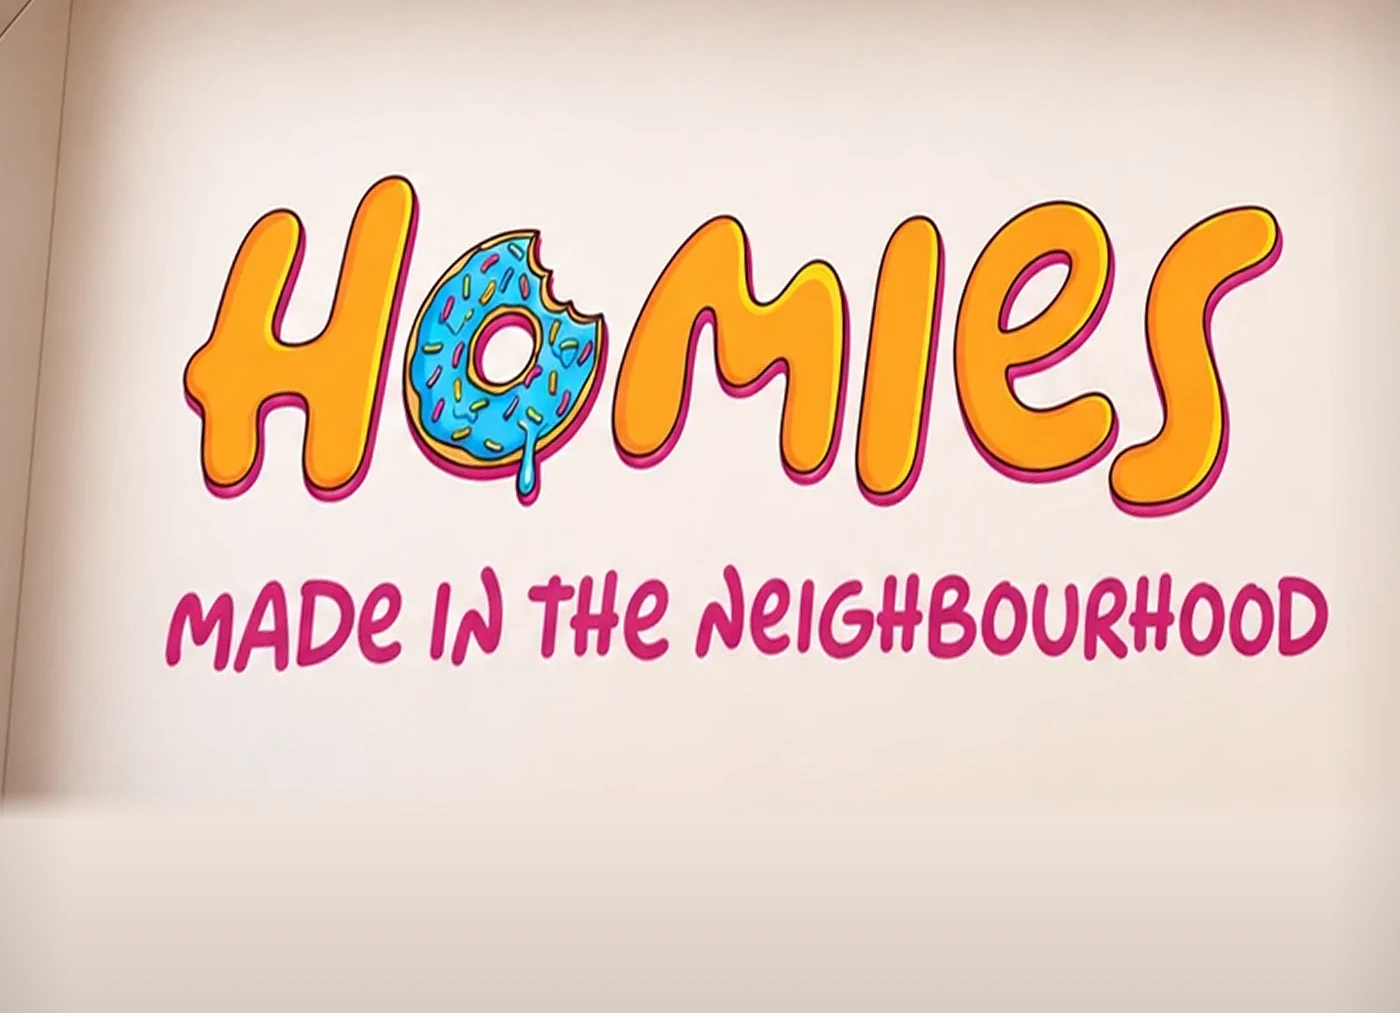
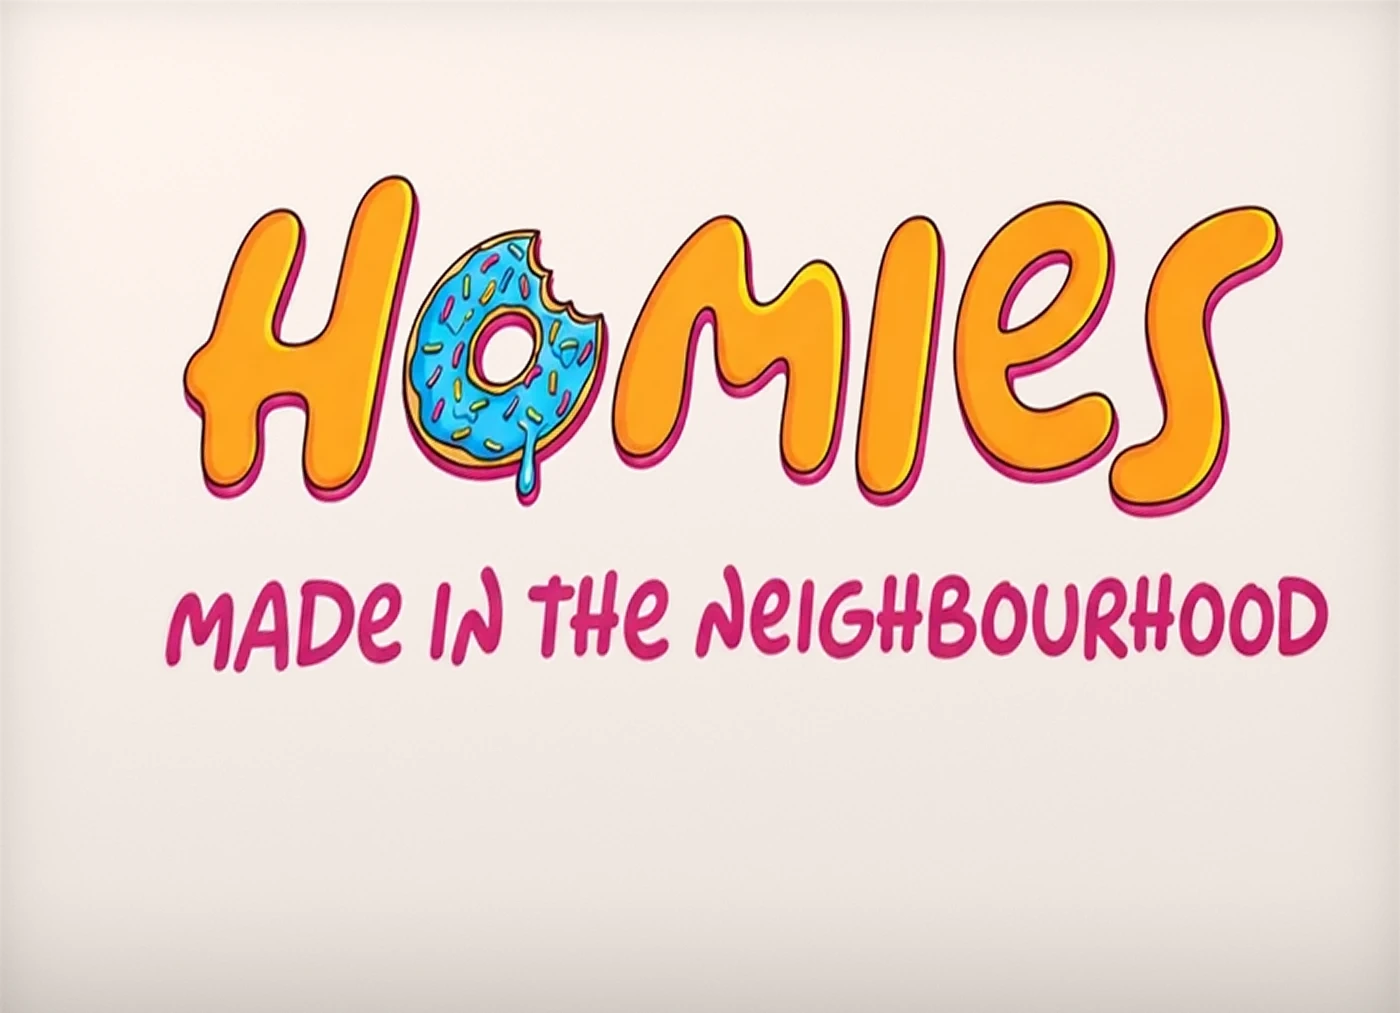
Hero box lid: sturdy folded-cardboard construction
- Panel texture rebuilt: the logo and wording are lifted pixel-for-pixel
  onto clean, evenly lit cardboard with soft shade along the folds and
  hinge (removes the photo's stray flap and crease marks).
- Side panels are tapered folds, deeper toward the open end, with a
  crisp fold line, a clean cut edge and matching inner/outer textures;
  outer faces keep the box's ring print at its true scale.
- Gentler, consistent per-face lighting; fold edges overlap slightly so
  joins never gap. Same position, size and 135° opening.

Changed region(s): [[0.0, 0.0, 1.0, 0.8263]]

diff --git a/js/hero-box.js b/js/hero-box.js
@@ -20,7 +20,7 @@
     R: [[0.917431, 0.390856, -0.07451], [0.179916, -0.574521, -0.798471], [-0.354895, 0.719136, -0.597405]],
     t: [-0.860662, 0.347017, 3.425569]
   };
-  var LID = { len: 1.02, lip: 0.06, over: 0.015, open: 135 };
+  var LID = { len: 1.02, lip: 0.085, taper: 0.25, over: 0.015, open: 135 };
   var IMG_W = 1312;
   // camera position in box space: C = -R^T t
   var CPOS = [0, 1, 2].map(function (i) { return -(CAM.R[0][i] * CAM.t[0] + CAM.R[1][i] * CAM.t[1] + CAM.R[2][i] * CAM.t[2]); });
@@ -55,11 +55,12 @@
     el.className = 'lf ' + cls; el.style.width = w + 'px'; el.style.height = h + 'px';
     lidEl.appendChild(el); return el;
   }
+  // the side and front panels are cardboard: cream inside, box-pink outside, with a fold line and a cut edge
   var F = {
-    panel: { w: 700, h: 506, out: makeFace('lf-out', 700, 506, 'img/hero/lid-outer.webp'), inn: makeFace('lf-in', 700, 506, 'img/hero/lid-inner.webp') },
-    front: { w: 700, h: 55, out: makeFace('lf-out', 700, 55, 'img/hero/lip-front.webp'), inn: makeFace('lf-in lf-paper', 700, 55) },
-    left: { w: 506, h: 55, out: makeFace('lf-out', 506, 55, 'img/hero/lip-front.webp'), inn: makeFace('lf-in lf-paper', 506, 55) },
-    right: { w: 506, h: 55, out: makeFace('lf-out', 506, 55, 'img/hero/lip-front.webp'), inn: makeFace('lf-in lf-paper', 506, 55) }
+    panel: { w: 700, h: 506, out: makeFace('lf-out', 700, 506, 'img/hero/lid-outer.webp'), inn: makeFace('lf-in', 700, 506, 'img/hero/lid-inner.webp?v=2') },
+    front: { w: 700, h: 60, out: makeFace('lf-out', 700, 60, 'img/hero/lip-out-front.webp'), inn: makeFace('lf-in', 700, 60, 'img/hero/lip-in.webp') },
+    left: { w: 506, h: 60, out: makeFace('lf-out', 506, 60, 'img/hero/lip-out-side.webp'), inn: makeFace('lf-in', 506, 60, 'img/hero/lip-in.webp') },
+    right: { w: 506, h: 60, out: makeFace('lf-out', 506, 60, 'img/hero/lip-out-side.webp'), inn: makeFace('lf-in', 506, 60, 'img/hero/lip-in.webp') }
   };
 
   function geometry(deg) {
@@ -68,13 +69,16 @@
     var n = [0, -Math.sin(th), -Math.cos(th)];         // inner normal (lips fold this way)
     var hL = [-o, 1, 0], hR = [W + o, 1, 0];
     var fL = add(hL, d, LID.len), fR = add(hR, d, LID.len);
-    var lp = LID.lip;
+    var lp = LID.lip, lh = LID.lip * LID.taper;        // side panels taper toward the hinge, like a real lid
+    // fold edges start a hair behind the main panel so the joins never show a gap
+    var e = -0.002;
+    var fLe = add(fL, n, e), fRe = add(fR, n, e), hLe = add(hL, n, e), hRe = add(hR, n, e);
     return {
       // corners in element order TL, TR, BR, BL; outward normal for the outer skin
       panel: { q: [fL, fR, hR, hL], nOut: [-n[0], -n[1], -n[2]] },
-      front: { q: [fL, fR, add(fR, n, lp), add(fL, n, lp)], nOut: d },
-      left: { q: [fL, hL, add(hL, n, lp), add(fL, n, lp)], nOut: [-1, 0, 0] },
-      right: { q: [hR, fR, add(fR, n, lp), add(hR, n, lp)], nOut: [1, 0, 0] }
+      front: { q: [fLe, fRe, add(fR, n, lp), add(fL, n, lp)], nOut: d },
+      left: { q: [fLe, hLe, add(hL, n, lh), add(fL, n, lp)], nOut: [-1, 0, 0] },
+      right: { q: [hRe, fRe, add(fR, n, lp), add(hR, n, lh)], nOut: [1, 0, 0] }
     };
   }
 
@@ -94,8 +98,10 @@
       if (!outerVisible && name !== 'panel') q = [q[1], q[0], q[3], q[2]];
       show.style.transform = quadMatrix(face.w, face.h, q);
       var nVis = outerVisible ? geo.nOut : [-geo.nOut[0], -geo.nOut[1], -geo.nOut[2]];
-      var light = (name === 'panel' ? 0.62 : 0.8) + 0.4 * Math.max(0, dot(nVis, LIGHT));
-      show.style.filter = 'brightness(' + Math.min(light, 1.08).toFixed(3) + ')';
+      // soft, consistent light: a strong ambient term so faces turned from the light read as shade, not grime
+      var ln = dot(nVis, LIGHT);
+      var light = name === 'panel' ? 0.62 + 0.4 * Math.max(0, ln) : 0.93 + 0.1 * ln;
+      show.style.filter = 'brightness(' + Math.max(0.86, Math.min(light, 1.02)).toFixed(3) + ')';
       show.style.zIndex = String(100 - Math.round(Math.hypot(toCam[0], toCam[1], toCam[2]) * 10));
       show.style.visibility = 'visible'; hide.style.visibility = 'hidden';
     });

diff --git a/css/styles.css b/css/styles.css
@@ -369,7 +369,6 @@ html.no-scroll { overflow: hidden; }
 .hb-lid { position: absolute; inset: 0; z-index: 6; pointer-events: none; }
 .hero-box.lid-behind .hb-lid { z-index: 2; }
 .lf { position: absolute; left: 0; top: 0; max-width: none; max-height: none; transform-origin: 0 0; visibility: hidden; backface-visibility: hidden; outline: 1px solid transparent; }
-.lf-paper { background: linear-gradient(180deg, #fbf3ee, #f1e4dc); }
 .lf-out { box-shadow: inset 0 0 0 1px rgba(160, 40, 90, 0.18); }
 
 /* the shine underneath, once open */

diff --git a/index.html b/index.html
@@ -469,7 +469,7 @@
 
   <script src="js/menu-data.js?v=9"></script>
   <script src="js/main.js?v=9"></script>
-  <script src="js/hero-box.js?v=9"></script>
+  <script src="js/hero-box.js?v=10"></script>
   <script src="js/product-view.js?v=9"></script>
   <script src="js/box-overlay.js?v=9"></script>
   <script src="js/effects.js?v=9"></script>

diff --git a/menu.html b/menu.html
@@ -165,7 +165,7 @@
 
   <script src="js/menu-data.js?v=9"></script>
   <script src="js/main.js?v=9"></script>
-  <script src="js/hero-box.js?v=9"></script>
+  <script src="js/hero-box.js?v=10"></script>
   <script src="js/product-view.js?v=9"></script>
   <script src="js/box-overlay.js?v=9"></script>
   <script src="js/effects.js?v=9"></script>
